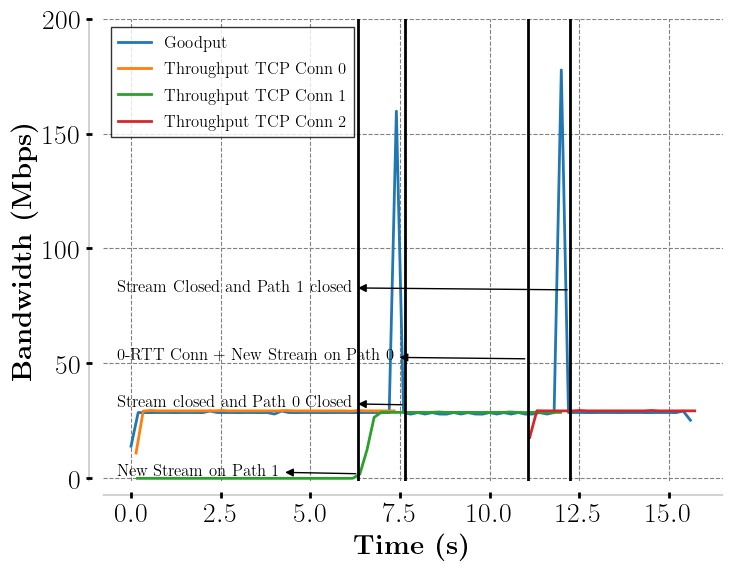
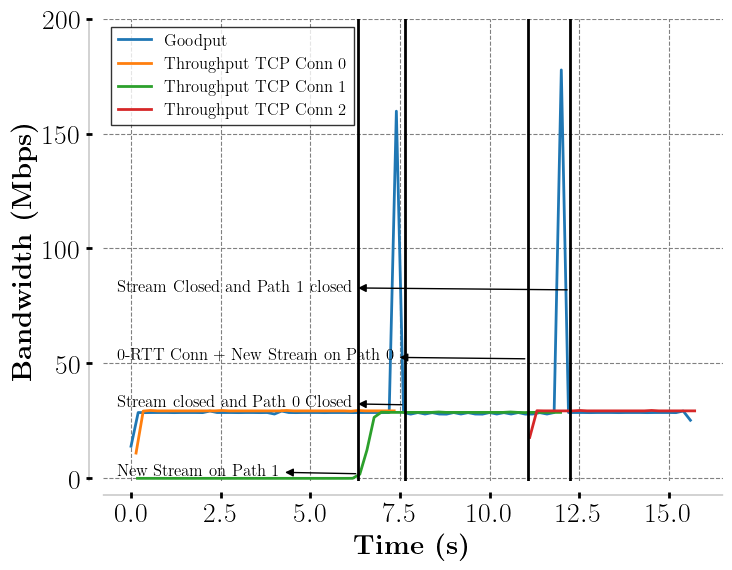
improving  lisibility on Fig 11

Changed region(s): [[0.1503, 0.0596, 0.4809, 0.2684]]

diff --git a/pretty_plotify/plot_aggregate_dual.py b/pretty_plotify/plot_aggregate_dual.py
@@ -160,7 +160,7 @@ if __name__ == "__main__":
         ax.annotate(legend_label(args.event_text[elem]),
                     xy=((event-min_timing_t)/1000000, args.event_pos[elem]),
                     xytext=(1, (args.event_pos[elem])),
-                    arrowprops=dict(arrowstyle="<|-", color='black'), fontsize=17,
+                    arrowprops=dict(arrowstyle="<|-", color='black'), fontsize=20,
                     color='black')
         elem+=1
 
@@ -168,7 +168,7 @@ if __name__ == "__main__":
     axis_aesthetic(axs[1])
 
     for ax in axs:
-        ax.legend(loc='upper left', fontsize=17, edgecolor="black", fancybox=False)
+        ax.legend(loc='upper left', fontsize=20, edgecolor="black", fancybox=False)
         ax.set_xlim(0, x_max)
         ax.set_ylim(0, 65)
         ax.set_xlabel(latex_label("Time (s)"), fontsize=24)

diff --git a/evaluation.tex b/evaluation.tex
@@ -73,7 +73,7 @@ application developers a transport API preventing them. Indeed, for example in
 to how much \tcpls should read from \tcp due to the requirement of having a
 complete record to decrypt it. One may want to read more
 from \tcp than the amount of data instructed by the caller, otherwise it could
-leading to record fragmentation. % adversely affecting the %throughput.
+lead to record fragmentation. % adversely affecting the %throughput.
 So with this modification in \texttt{picotls}, we can observe that \tcp/\tls reaches
 10.3~Gbps with a 1500-byte MTU and 12.6~Gbps with a 9000-byte MTU. Both
 leverage \tcp Segmentation Offload (TSO), which is a
